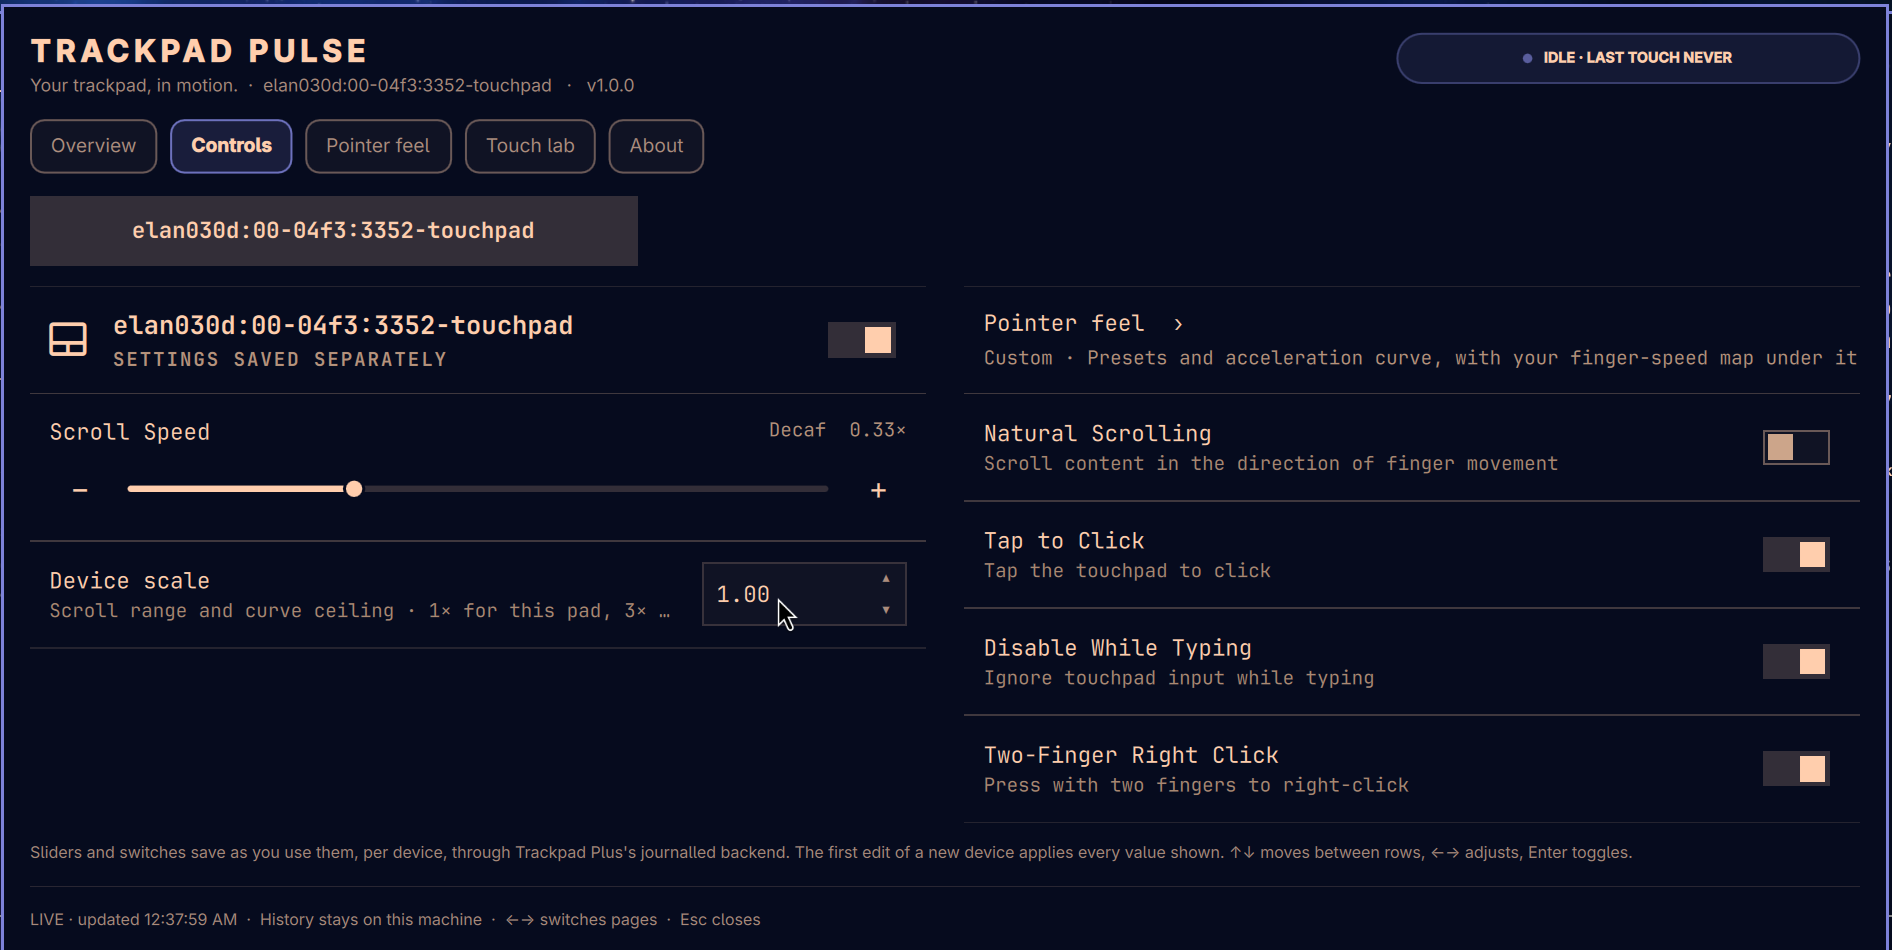
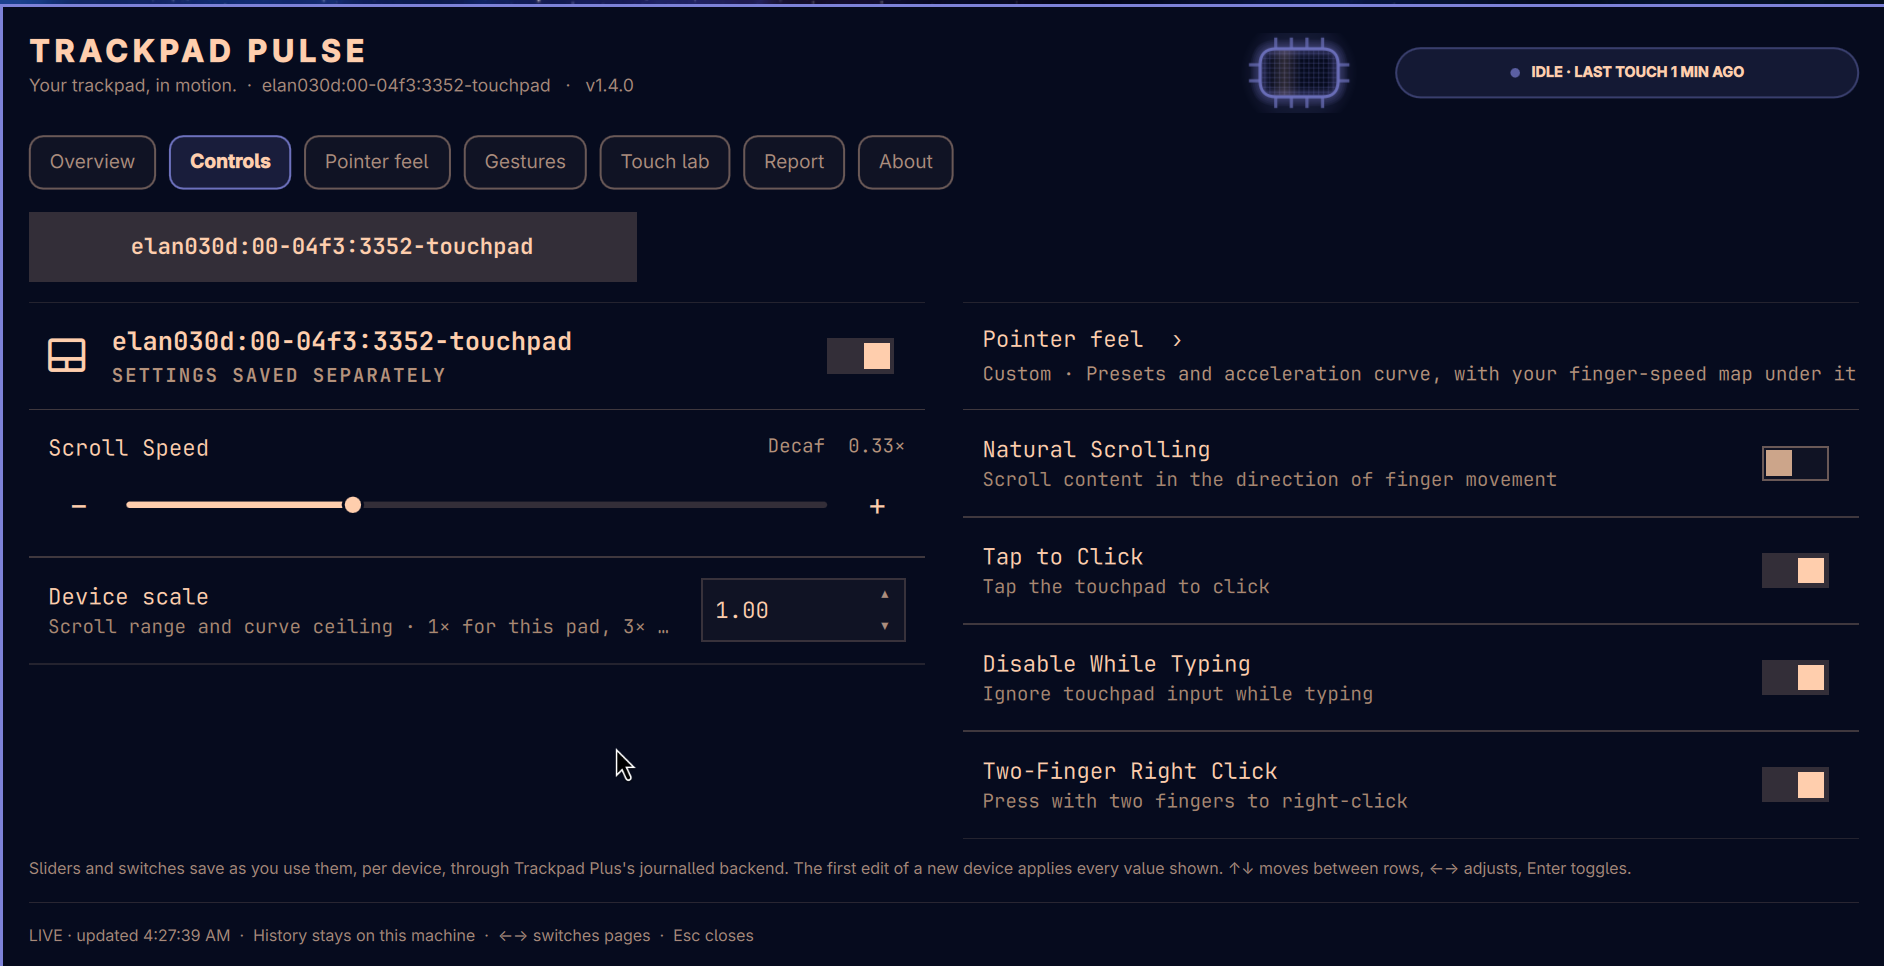
feat: fullscreen apps as gestures, the live pad on every page, theme tint, v1.4.0
WHAT: a "Fullscreen apps" catalogue group: the default terminal plus every
launchable desktop entry (XDG_DATA_HOME / XDG_DATA_DIRS), each opened as a
fullscreen window through the recorder's open-fullscreen action. Omarchy's
launchers detach via setsid and uwsm-app, so Hyprland's [fullscreen] exec
prefix cannot attach; the recorder launches, polls hyprctl clients for the
window that appears, focuses it by address and dispatches
hl.dsp.window.fullscreen({ mode = "fullscreen" }). Verified live on gus:
foot appeared, fullscreen=2, closed again.

Also: the live TrackpadChip rides in the header of every page except Overview
(hero) and About (own plate); the palms card no longer wears a red border
(Fred: distracting); the chip's disabled tint is Color.muted, the last
non-theme colour in the panel. Two-finger gestures were considered and
struck: libinput reports two-finger swipes as scrolling, never as gestures.

TAGS: omarchy, plugin, trackpad, pulse, gestures, fullscreen, theme
LR-T: fullscreen-app-gesture, launch-then-fullscreen-by-address, header-chip
LR-D: omarchy, hyprland, python, qml
LR-K: exec-rule-prefix-needs-a-child-window, poll-clients-for-the-new-window
LR-L: law-10, law-17
LR-E: medium
LR-P: shipped

Claude-Session: https://claude.ai/code/session_01GSLoLKbCxgFZvx5aaabvan

diff --git a/Panel.qml b/Panel.qml
@@ -806,6 +806,7 @@ Panel {
         fingers: root.liveFingers
         tint: root.tint
         surface: Color.background
+        mutedTint: Color.muted
         glint: root.bar ? root.bar.foreground : root.ink
         padEnabled: root.touchpadEnabled && root.deviceConnected
         animate: !root.stale && root.animated
@@ -1051,8 +1052,11 @@ Panel {
         Row {
           width: parent.width
           spacing: 10
+          // The live pad rides in the header on every page. Overview has the
+          // hero-sized one and About has its own, so those two skip it.
+          readonly property bool headerChip: !root.chooseMode && root.active !== "overview" && root.active !== "about"
           Column {
-            width: parent.width - 300
+            width: parent.width - 300 - (parent.headerChip ? 110 : 0)
             spacing: 3
             Heading { text: "TRACKPAD PULSE"; font.pixelSize: 19; font.letterSpacing: 3 }
             Label {
@@ -1062,8 +1066,18 @@ Panel {
               font.pixelSize: 11
             }
           }
+          TrackpadChip {
+            visible: parent.headerChip
+            width: visible ? 100 : 0; height: 50
+            anchors.verticalCenter: parent.verticalCenter
+            fingers: root.liveFingers; tint: root.tint; surface: Color.background; mutedTint: Color.muted; glint: root.ink
+            padEnabled: root.touchpadEnabled && root.deviceConnected
+            animate: root.opened && visible && !root.stale && root.animated
+            level: root.level; aspect: root.padAspect
+          }
           Rectangle {
             width: 290; height: 32; radius: 16
+            anchors.verticalCenter: parent.verticalCenter
             color: Qt.alpha(root.tint, 0.14)
             border.color: Qt.alpha(root.tint, 0.5)
             Row {
@@ -1176,7 +1190,7 @@ Panel {
             gradient: Gradient { GradientStop { position: 0; color: Qt.alpha(root.tint, 0.13) } GradientStop { position: 1; color: root.card } }
             TrackpadChip {
               x: 14; y: 8; width: 236; height: 160
-              fingers: root.liveFingers; tint: root.tint; surface: Color.background; glint: root.ink
+              fingers: root.liveFingers; tint: root.tint; surface: Color.background; mutedTint: Color.muted; glint: root.ink
               padEnabled: root.touchpadEnabled && root.deviceConnected
               animate: root.opened && root.active === "overview" && !root.stale && root.animated
               level: root.level; aspect: root.padAspect
@@ -1316,7 +1330,7 @@ Panel {
               Rectangle {
                 id: gestureCard
                 required property var modelData
-                width: (shell.width - 50) / 6; height: 62; radius: 12; color: root.card; border.color: gestureCard.modelData.k === "palms" && Pulse.num(root.todayCounts.palms) > 0 ? Qt.alpha(root.heat, 0.5) : root.cardEdge
+                width: (shell.width - 50) / 6; height: 62; radius: 12; color: root.card; border.color: root.cardEdge
                 Column {
                   anchors.fill: parent; anchors.margins: 10; spacing: 3
                   Label { text: gestureCard.modelData.l; font.pixelSize: 9; font.letterSpacing: 1 }

diff --git a/TrackpadChip.qml b/TrackpadChip.qml
@@ -12,6 +12,7 @@ Item {
     property color palmTint: '#ff6b6b'
     property color surface: '#0b141b'
     property color glint: '#ffffff'
+    property color mutedTint: '#8c9499'
     property bool padEnabled: true
     property bool animate: true
     property bool compact: false
@@ -106,7 +107,7 @@ Item {
             var bw = w - pad * 2, bh = bw / root.aspect
             if (bh > h - pad * 2) { bh = h - pad * 2; bw = bh * root.aspect }
             var x = (w - bw) / 2, y = (h - bh) / 2, r = root.compact ? 3 : 10
-            var tint = root.padEnabled ? root.tint : Qt.rgba(0.55, 0.58, 0.62, 1)
+            var tint = root.padEnabled ? root.tint : root.mutedTint
             // Aura.
             if (!root.compact) {
                 var aura = c.createRadialGradient(w / 2, h / 2, bw * 0.15, w / 2, h / 2, bw * 0.75)

diff --git a/collectors/trackpad_pulse.py b/collectors/trackpad_pulse.py
@@ -19,6 +19,7 @@ Files
 """
 import argparse
 import array
+import configparser
 import hashlib
 import random
 import sys
@@ -1535,6 +1536,110 @@ CATALOGUE = [
     {'id': 'pad-off', 'group': 'Trackpad Pulse', 'label': 'Trackpad off', 'hint': 'Switch the pad off; turn it back on from the bar icon.', 'spec': _exec('omarchy-shell nixfred.trackpad-pulse enable false')},
 ]
 CATALOGUE_BY_ID = {a['id']: a for a in CATALOGUE}
+# Fullscreen launches. Omarchy's launchers go through setsid and uwsm-app, so a
+# window is never a child of the gesture's shell and Hyprland's [fullscreen]
+# exec prefix cannot attach. The recorder launches, watches the client list
+# for the window that appears, focuses it by address and fullscreens it.
+FULLSCREEN_WAIT = 8.0
+APP_ID_RE = re.compile(r'^[A-Za-z0-9._@+-]{1,120}$')
+
+
+def desktop_dirs():
+    home = os.environ.get('XDG_DATA_HOME') or str(Path.home() / '.local/share')
+    dirs = [home + '/applications']
+    for d in (os.environ.get('XDG_DATA_DIRS') or '/usr/local/share:/usr/share').split(':'):
+        if d:
+            dirs.append(d.rstrip('/') + '/applications')
+    return dirs
+
+
+def desktop_apps():
+    """Launchable desktop entries, first one wins per id, sorted by name."""
+    seen, apps = set(), []
+    for d in desktop_dirs():
+        for f in sorted(glob.glob(d + '/*.desktop')):
+            base = os.path.basename(f)[:-8]
+            if base in seen or not APP_ID_RE.match(base):
+                continue
+            cp = configparser.RawConfigParser(strict=False, interpolation=None)
+            try:
+                cp.read(f, encoding='utf-8')
+            except (configparser.Error, OSError, UnicodeDecodeError):
+                continue
+            if 'Desktop Entry' not in cp:
+                continue
+            e = cp['Desktop Entry']
+            if e.get('Type', '') != 'Application' or e.get('NoDisplay', 'false').lower() == 'true' or e.get('Hidden', 'false').lower() == 'true' or not e.get('Exec'):
+                continue
+            seen.add(base)
+            apps.append({'id': base, 'name': (e.get('Name') or base)[:60], 'file': f})
+    apps.sort(key=lambda a: a['name'].lower())
+    return apps
+
+
+def dynamic_actions():
+    launcher = shlex.join([sys.executable, COLLECTOR, 'open-fullscreen'])
+    out = [{'id': 'term-full', 'group': 'Fullscreen apps', 'label': 'Terminal (default)', 'hint': 'Open the default terminal and fullscreen it.',
+            'spec': _exec(launcher + ' terminal')}]
+    for a in desktop_apps():
+        out.append({'id': 'app:' + a['id'], 'group': 'Fullscreen apps', 'label': a['name'], 'hint': 'Open ' + a['name'] + ' and fullscreen its window.',
+                    'spec': _exec(launcher + ' ' + shlex.quote('app:' + a['id']))})
+    return out
+
+
+def all_actions():
+    by_id = dict(CATALOGUE_BY_ID)
+    for a in dynamic_actions():
+        by_id.setdefault(a['id'], a)
+    return by_id
+
+
+def new_window(before, after):
+    """The first mapped, non-special window in `after` that was not in `before`. Pure."""
+    known = {w.get('address') for w in before}
+    for w in after:
+        if w.get('address') in known or not w.get('mapped', True):
+            continue
+        ws = w.get('workspace') or {}
+        if isinstance(ws, dict) and int(ws.get('id', 0) or 0) < 0:
+            continue
+        return w
+    return None
+
+
+def clients():
+    try:
+        out = subprocess.run(['hyprctl', 'clients', '-j'], capture_output=True, text=True, timeout=3, check=False).stdout
+        value = json.loads(out or '[]')
+        return value if isinstance(value, list) else []
+    except (OSError, ValueError, subprocess.SubprocessError):
+        return []
+
+
+def open_fullscreen(target):
+    if target == 'terminal':
+        argv = ['omarchy-launch-terminal']
+        label = 'the terminal'
+    elif target.startswith('app:') and APP_ID_RE.match(target[4:]) and any(a['id'] == target[4:] for a in desktop_apps()):
+        argv = ['gtk-launch', target[4:]]
+        label = target[4:]
+    else:
+        raise RuntimeError('Unknown app.')
+    before = clients()
+    subprocess.Popen(argv, stdout=subprocess.DEVNULL, stderr=subprocess.DEVNULL, start_new_session=True)
+    deadline = time.monotonic() + FULLSCREEN_WAIT
+    while time.monotonic() < deadline:
+        time.sleep(0.1)
+        w = new_window(before, clients())
+        if w:
+            addr = str(w.get('address'))
+            if not re.fullmatch(r'0x[0-9a-fA-F]+', addr):
+                break
+            subprocess.run(['hyprctl', 'dispatch', 'hl.dsp.focus({ window = "address:%s" })' % addr], capture_output=True, timeout=3, check=False)
+            time.sleep(0.05)
+            subprocess.run(['hyprctl', 'dispatch', 'hl.dsp.window.fullscreen({ mode = "fullscreen" })'], capture_output=True, timeout=3, check=False)
+            return {'message': 'Opened ' + label + ' fullscreen.', 'address': addr}
+    return {'message': 'Launched ' + label + ', but no new window appeared within %.0f s to fullscreen.' % FULLSCREEN_WAIT}
 DEFAULT_GESTURES = {'3-left': 'ws-slide', '3-right': 'ws-slide', '3-up': 'win-fullscreen', '3-down': 'ws-scratch',
                     '3-pinchin': 'none', '3-pinchout': 'none',
                     '4-left': 'theme-prev', '4-right': 'theme-next', '4-up': 'bg-next', '4-down': 'menu',
@@ -1544,7 +1649,7 @@ DEFAULT_GESTURES = {'3-left': 'ws-slide', '3-right': 'ws-slide', '3-up': 'win-fu
 def gesture_catalogue():
     """The catalogue, minus actions whose command is not installed here."""
     out = []
-    for a in CATALOGUE:
+    for a in CATALOGUE + dynamic_actions():
         entry = {k: a[k] for k in ('id', 'group', 'label', 'hint')}
         entry['pair'] = bool(a.get('pair'))
         entry['available'] = not a.get('requires') or bool(shutil.which(a['requires']))
@@ -1567,16 +1672,17 @@ def normalize_gestures(assignments):
     if not isinstance(assignments, dict):
         raise RuntimeError('Gestures must be an object of slot → action.')
     out = {slot: 'none' for slot in SLOTS}
+    known = all_actions()
     for slot, action in assignments.items():
         if slot not in out:
             raise RuntimeError('Unknown gesture slot: ' + str(slot)[:40])
-        if action not in CATALOGUE_BY_ID:
+        if action not in known:
             raise RuntimeError('Unknown action: ' + str(action)[:40])
         out[slot] = action
     # A pair action owns its whole axis: both directions say the same thing.
     for slot, action in list(out.items()):
         fingers, direction = slot.split('-')
-        if direction in PARTNER and CATALOGUE_BY_ID[action].get('pair'):
+        if direction in PARTNER and known[action].get('pair'):
             out['%s-%s' % (fingers, PARTNER[direction])] = action
     return out
 
@@ -1585,8 +1691,9 @@ def gestures_lua(assignments):
     """The Hyprland Lua for a validated map. Pair actions are emitted once per axis."""
     lines = ['do -- Managed by nixfred.trackpad-pulse. Change gestures in Trackpad Pulse.']
     emitted = set()
+    known = all_actions()
     for slot in SLOTS:
-        action = CATALOGUE_BY_ID[assignments.get(slot, 'none')]
+        action = known.get(assignments.get(slot, 'none'), CATALOGUE_BY_ID['none'])
         spec = action['spec']
         if spec['kind'] == 'none':
             continue
@@ -1734,7 +1841,7 @@ def main():
     parser = argparse.ArgumentParser()
     parser.add_argument('action', choices=['daemon', 'snapshot', 'install-service', 'uninstall-service', 'grant-access', 'revoke-access', 'visit', 'udev-rule',
                                            'optimize', 'optimize-applied', 'hint', 'gestures-catalogue', 'gestures-apply', 'gestures-remove',
-                                           'theme-next', 'theme-prev', 'theme-random', 'report', 'auto-off-on', 'auto-off-off'])
+                                           'theme-next', 'theme-prev', 'theme-random', 'report', 'auto-off-on', 'auto-off-off', 'open-fullscreen'])
     parser.add_argument('payload', nargs='?', default='{}', help='JSON for optimize / optimize-applied')
     parser.add_argument('--link', choices=sorted(LINKS))
     args = parser.parse_args()
@@ -1760,6 +1867,8 @@ def main():
             value = json.loads((STATE / 'hint.json').read_text())
         elif args.action == 'gestures-catalogue':
             value = gesture_catalogue()
+        elif args.action == 'open-fullscreen':
+            value = open_fullscreen(str(args.payload or ''))
         elif args.action == 'report':
             today = Recorder._fresh_today(None, time.time())
             try:

diff --git a/test_collector.py b/test_collector.py
@@ -533,7 +533,7 @@ class GestureTests(unittest.TestCase):
             if action['id'] != 'none':
                 self.assertIn('hl.gesture({ fingers = 3', lua, action['id'])
         catalogue = tp.gesture_catalogue()
-        self.assertEqual(len(catalogue['actions']), len(tp.CATALOGUE))
+        self.assertGreaterEqual(len(catalogue['actions']), len(tp.CATALOGUE))
         self.assertEqual(set(catalogue['defaults']), set(tp.SLOTS))
         self.assertTrue(all(a['group'] and a['label'] and a['hint'] for a in catalogue['actions']))
 
@@ -603,6 +603,41 @@ class HandMouseReportTests(unittest.TestCase):
             self.assertEqual(r['week']['mouse'], 720.0)
             self.assertEqual(r['optimize'][0]['changes'], ['Start'])
             self.assertEqual(r['days'][-1]['day'], today['day'])
+
+
+class FullscreenAppTests(unittest.TestCase):
+    def test_desktop_scan_and_dynamic_actions_respect_xdg(self):
+        with tempfile.TemporaryDirectory() as directory:
+            apps = Path(directory) / 'applications'
+            apps.mkdir()
+            (apps / 'good-app.desktop').write_text('[Desktop Entry]\nType=Application\nName=Good App\nExec=good %U\n')
+            (apps / 'hidden.desktop').write_text('[Desktop Entry]\nType=Application\nName=Hidden\nNoDisplay=true\nExec=h\n')
+            (apps / 'link.desktop').write_text('[Desktop Entry]\nType=Link\nName=Link\nURL=x\n')
+            old = dict(os.environ)
+            os.environ['XDG_DATA_HOME'] = directory
+            os.environ['XDG_DATA_DIRS'] = directory
+            try:
+                found = tp.desktop_apps()
+                self.assertEqual([a['id'] for a in found], ['good-app'])
+                ids = [a['id'] for a in tp.dynamic_actions()]
+                self.assertEqual(ids[0], 'term-full')
+                self.assertIn('app:good-app', ids)
+                clean = tp.normalize_gestures({'3-up': 'app:good-app', '4-up': 'term-full'})
+                lua = tp.gestures_lua(clean)
+                self.assertIn("open-fullscreen app:good-app", lua)
+                self.assertIn('open-fullscreen terminal', lua)
+                with self.assertRaises(RuntimeError):
+                    tp.normalize_gestures({'3-up': 'app:not-installed'})
+                with self.assertRaises(RuntimeError):
+                    tp.open_fullscreen('app:../../etc/passwd')
+            finally:
+                os.environ.clear(); os.environ.update(old)
+
+    def test_new_window_picks_the_first_unseen_mapped_window(self):
+        before = [{'address': '0x1', 'mapped': True}, {'address': '0x2', 'mapped': True}]
+        after = before + [{'address': '0x3', 'mapped': False}, {'address': '0x4', 'mapped': True, 'workspace': {'id': -98}}, {'address': '0x5', 'mapped': True, 'workspace': {'id': 2}}]
+        self.assertEqual(tp.new_window(before, after)['address'], '0x5')
+        self.assertIsNone(tp.new_window(before, before))
 
 
 if __name__ == '__main__':

diff --git a/CHANGELOG.md b/CHANGELOG.md
@@ -2,6 +2,14 @@
 
 Versions follow semver and live in `manifest.json`, which the panel header, the About page and `status` all read. Every release is tagged `vX.Y.Z`.
 
+## 1.4.0 — 2026-09-14
+
+- **Fullscreen apps as gestures.** A new catalogue group with the default terminal and every launchable desktop entry on the machine, each opened as a fullscreen window. Omarchy's launchers detach through `setsid` and `uwsm-app`, so Hyprland's exec-rule prefix cannot follow them; the recorder launches, watches the client list for the window that appears, focuses it by address and fullscreens it. Searchable in every gesture dropdown.
+- The live pad now rides in the header of every page except Overview, which has the hero-sized one, and About, which has its own.
+- Overview no longer paints a red border on the palms card.
+- Theme: the chip's disabled tint comes from the theme's muted colour instead of a fixed grey. Every colour in the panel is a theme role.
+- Recorder: `open-fullscreen` action; `desktop_apps()` honours `XDG_DATA_HOME` and `XDG_DATA_DIRS`.
+
 ## 1.3.0 — 2026-09-14
 
 - **Report page.** This week against last: distance, touches, clicks, active time, a bar per day, the busiest day and hour, palms rejected, and the last Optimize passes with what they changed.

diff --git a/README.md b/README.md
@@ -99,6 +99,7 @@ Every three- and four-finger swipe and pinch Hyprland offers, each with a search
 | **Themes & backgrounds** | next, previous, random and picked theme; next and picked background; night light |
 | **Omarchy** | menu, emoji, clipboard, keybindings, screenshot region or screen, recording, lock, screensaver, bar, do not disturb, terminal, browser, files |
 | **Media & audio** | volume up, down, mute, mic mute, switch output, brightness, play/pause and tracks where `playerctl` is installed |
+| **Fullscreen apps** | the default terminal, or any installed app, opened as a fullscreen window |
 | **Zoom** | cursor zoom ×2, or live with the pinch |
 | **Trackpad Pulse** | open the dashboard, Optimize for my hand, trackpad off |
 
